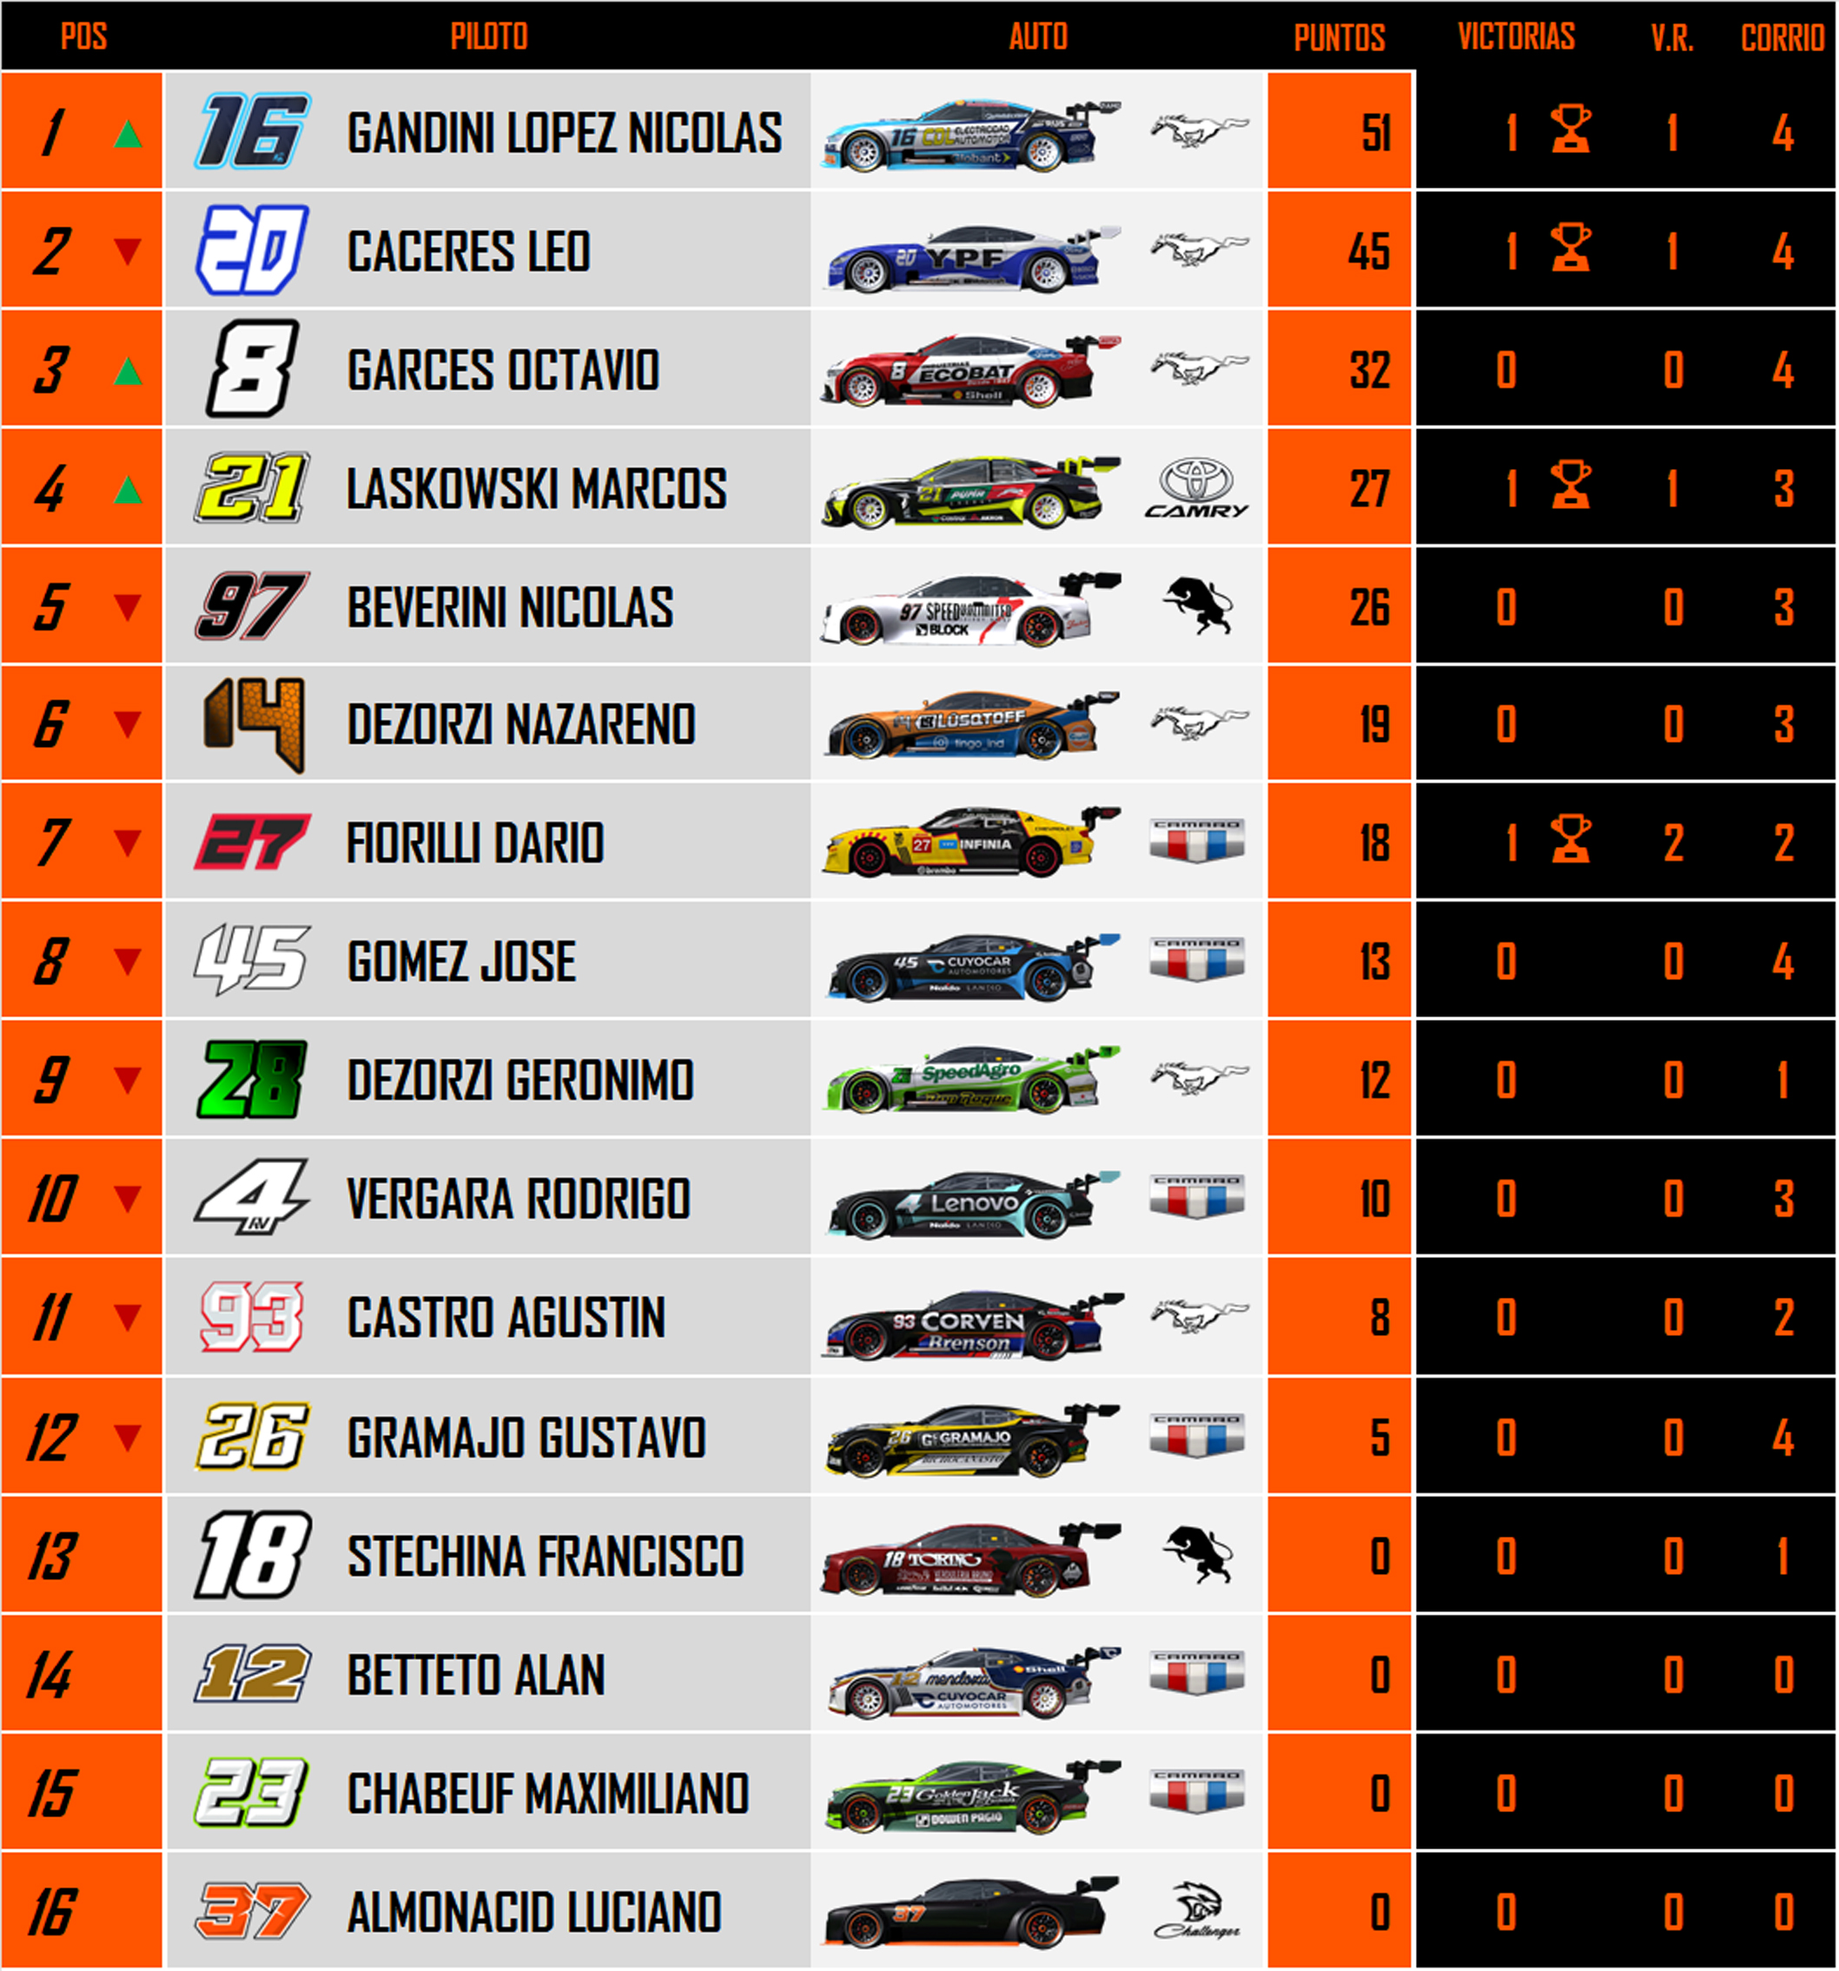
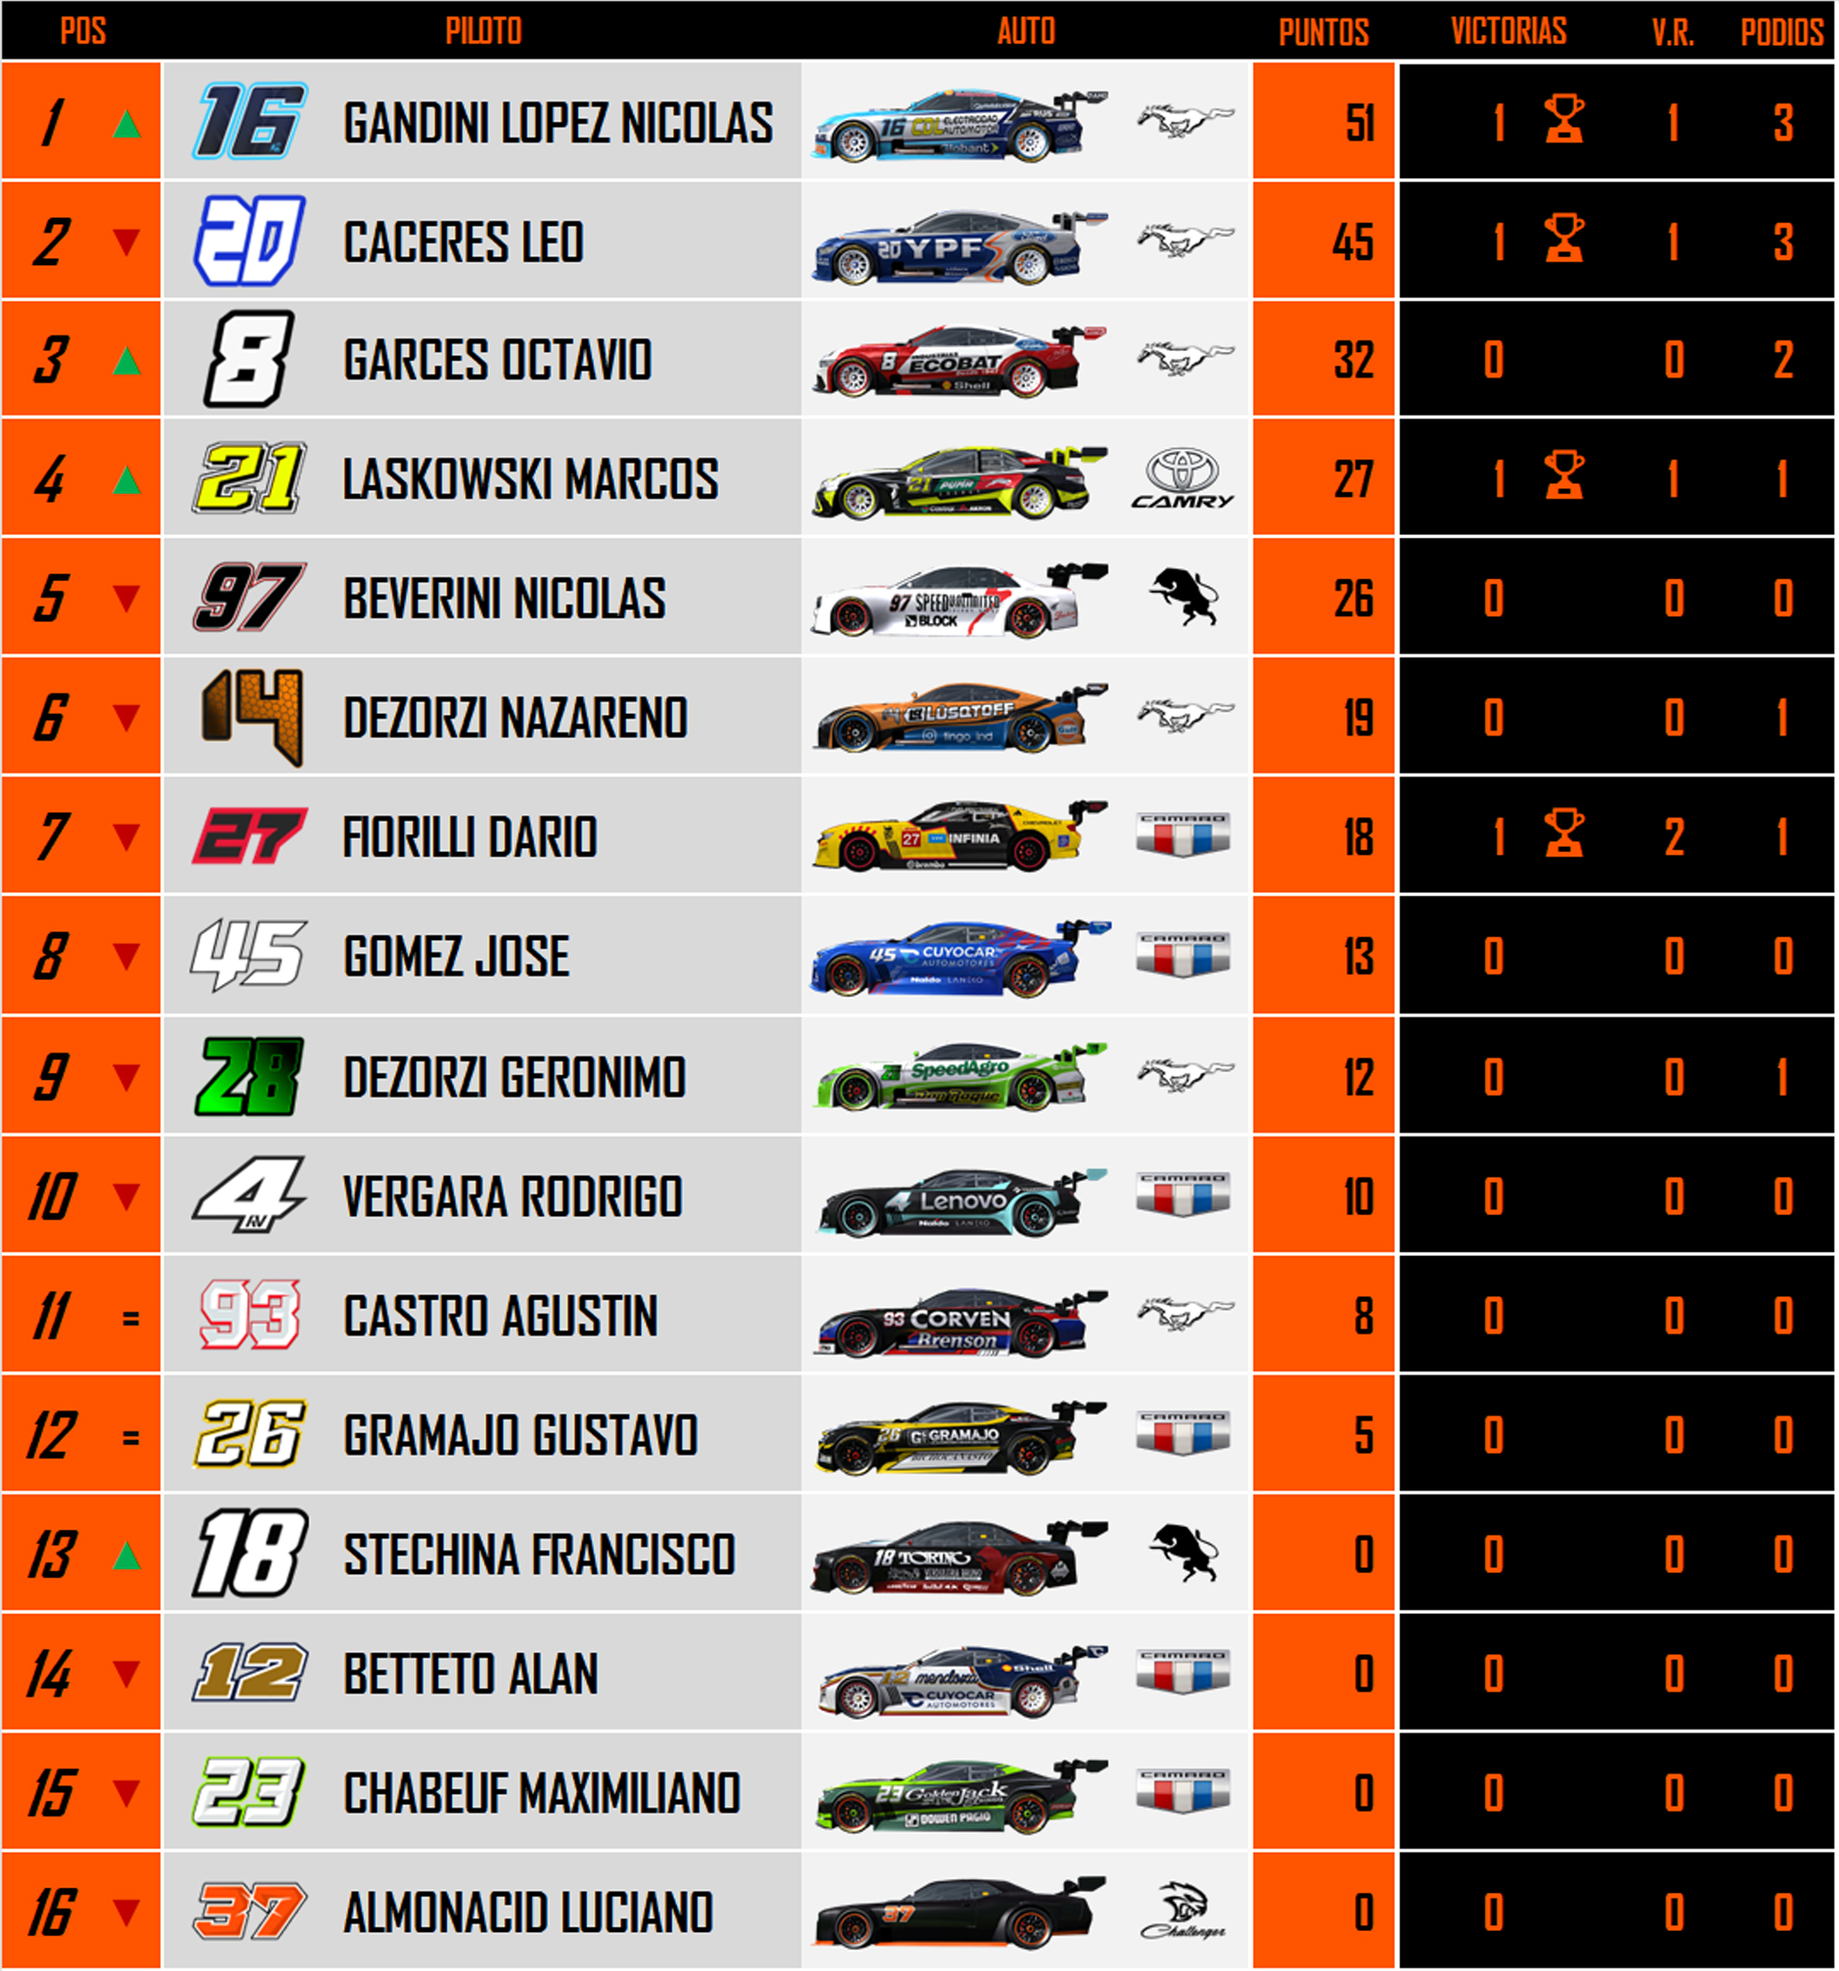
autos nuevos

diff --git a/campeonato.html b/campeonato.html
@@ -29,6 +29,15 @@
     <aside class="banner-next-circuit-background">
       <section class="banner-next-circuit">
           <section class="banner-section">
+              <p class="banner-name">RESULTADOS</p>
+          </section>
+  </aside>
+  <main class="main-body">
+      <img class="img-campeonato" src="./assets/campeonato-resultados.jpg" alt="">
+  </main>
+    <aside class="banner-next-circuit-background">
+      <section class="banner-next-circuit">
+          <section class="banner-section">
               <p class="banner-name">CAMPEONATO DE MARCAS</p>
           </section>
   </aside>
